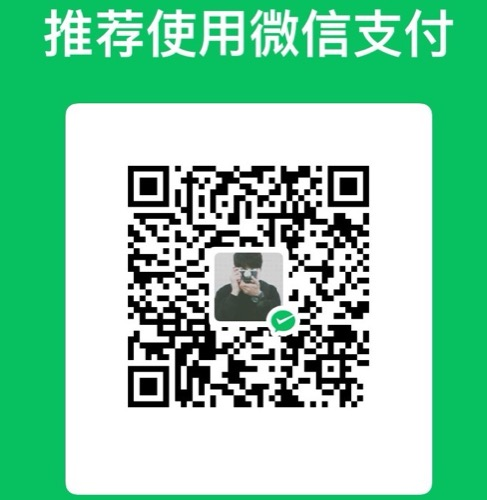
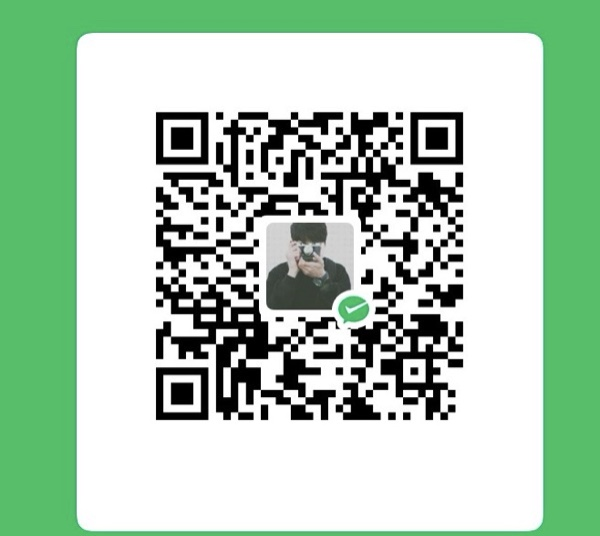
Update WeChat QR with larger QR area for better recognition
- Cropped to maximize QR code area
- Keep 600px resolution, quality 85 for clarity
- Display size increased to 220px

diff --git a/src/components/ResultPage.vue b/src/components/ResultPage.vue
@@ -120,7 +120,7 @@
       <div class="tip-text">感谢支持！扫码打赏 ❤</div>
       <div class="tip-qr-row">
         <div class="tip-qr-item">
-          <img src="/tip-wechat.jpg?v=3" class="tip-qr-img" alt="微信赞赏" />
+          <img src="/tip-wechat.jpg?v=4" class="tip-qr-img" alt="微信赞赏" />
           <span>微信</span>
         </div>
         <div class="tip-qr-item">
@@ -687,7 +687,7 @@ async function handleShare() {
 .tip-btn:hover { transform: translateY(-1px); opacity: 0.9; }
 .tip-qr-row { display: flex; justify-content: center; gap: 32px; margin-bottom: 14px; }
 .tip-qr-item { display: flex; flex-direction: column; align-items: center; gap: 6px; font-size: 13px; color: var(--text-secondary); }
-.tip-qr-img { width: 180px; height: 180px; border-radius: 8px; border: 1px solid var(--border-color); object-fit: contain; }
+.tip-qr-img { width: 220px; height: 220px; border-radius: 8px; border: 1px solid var(--border-color); object-fit: contain; }
 .tip-close {
   font-size: 13px; color: var(--text-muted); background: none; border: none; cursor: pointer;
   text-decoration: underline;
